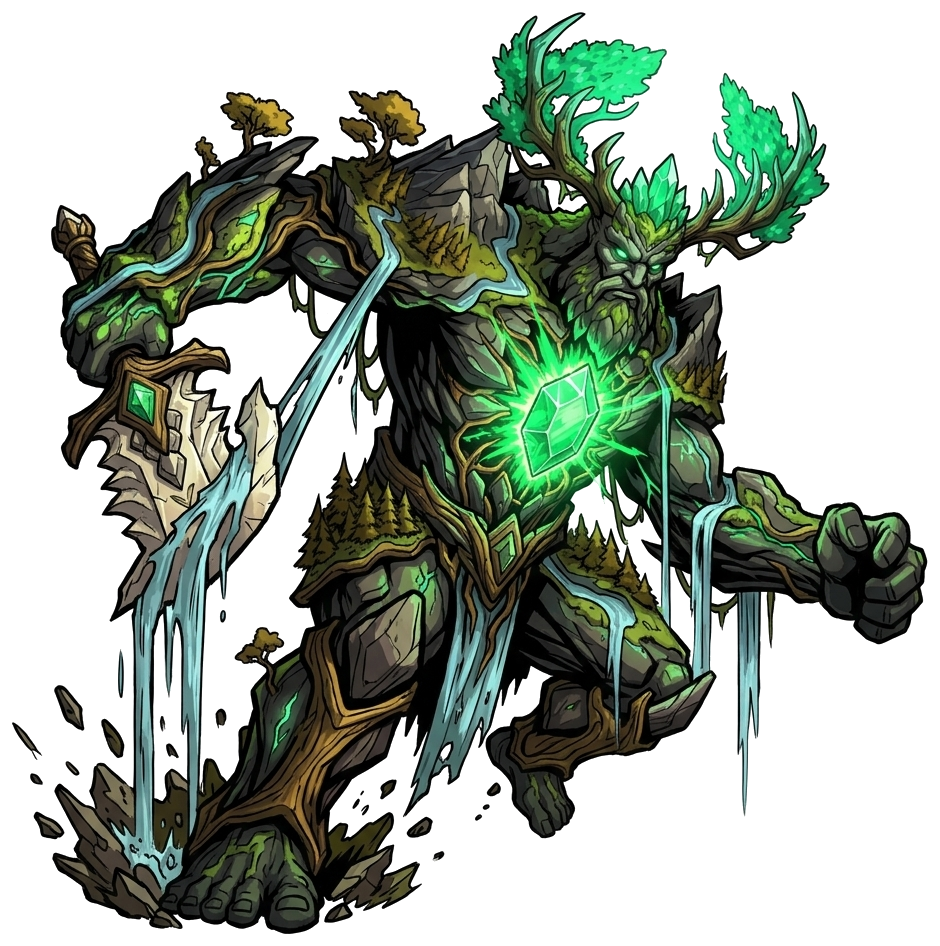
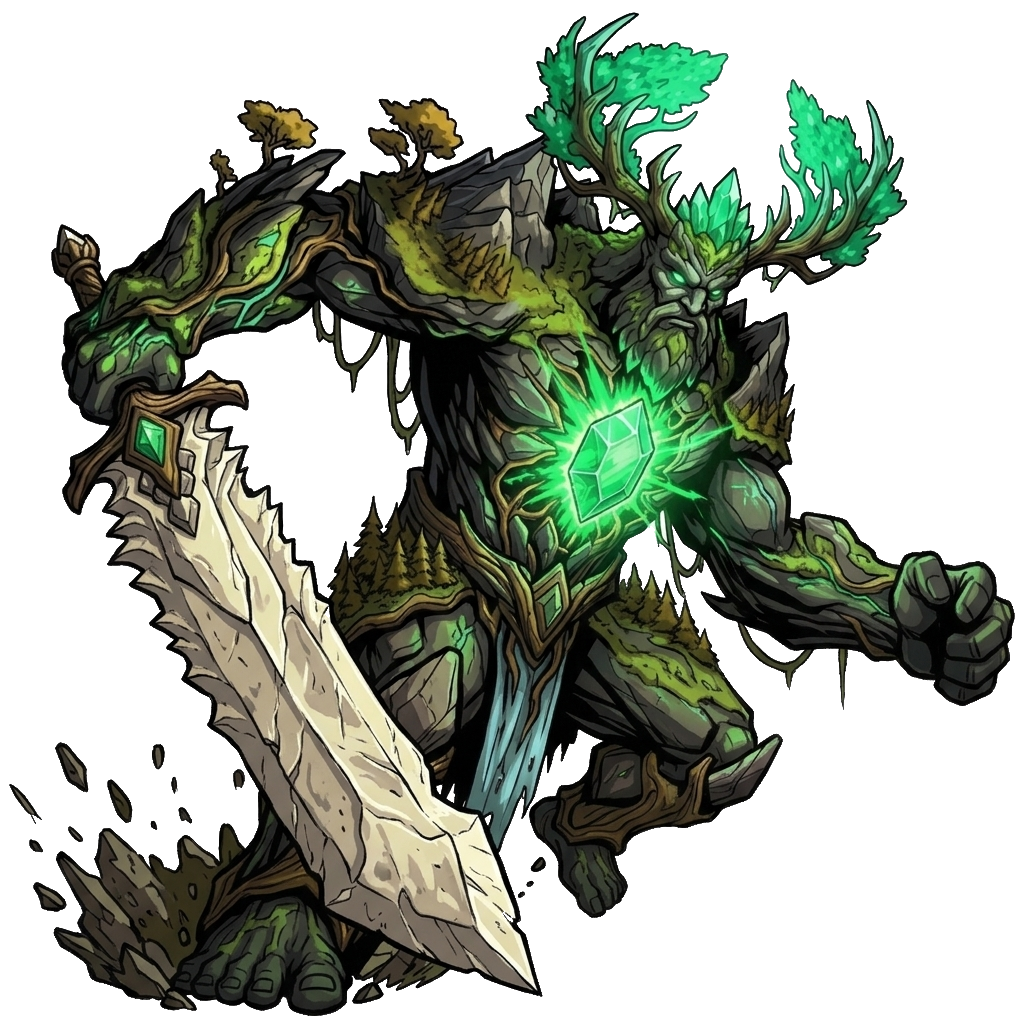
fix(art): regenerate green_50_avatar_gaia (Sylvanor) with unbroken Presa Tectonica greatsword and clean alpha cutout

diff --git a/src/components/CardView.tsx b/src/components/CardView.tsx
@@ -363,7 +363,7 @@ export const CardView: React.FC<CardViewProps> = ({
           <div className={`mtg-token-art aura-${displayCard.domain}`}>
             {!imgError && displayCard.imagePath ? (
               <img
-                src={`${displayCard.imagePath}?v=40`}
+                src={`${displayCard.imagePath}?v=41`}
                 alt={displayName}
                 className="mtg-token-img"
                 onError={() => setImgError(true)}
@@ -520,7 +520,7 @@ export const CardView: React.FC<CardViewProps> = ({
 
           {!imgError && displayCard.imagePath ? (
             <img
-              src={`${displayCard.imagePath}?v=40`}
+              src={`${displayCard.imagePath}?v=41`}
               alt={displayName}
               className="card-cutout-img"
               onError={() => setImgError(true)}

diff --git a/src/components/MythologyAtlasView.tsx b/src/components/MythologyAtlasView.tsx
@@ -342,7 +342,7 @@ export const MythologyAtlasView: React.FC<MythologyAtlasViewProps> = ({ onInspec
                         title={`Clique para inspecionar ${card.name}`}
                       >
                         <img
-                          src={`${card.imagePath}?v=13`}
+                          src={`${card.imagePath}?v=14`}
                           alt={card.name}
                           className="poem-card-medallion-img"
                           loading="lazy"
